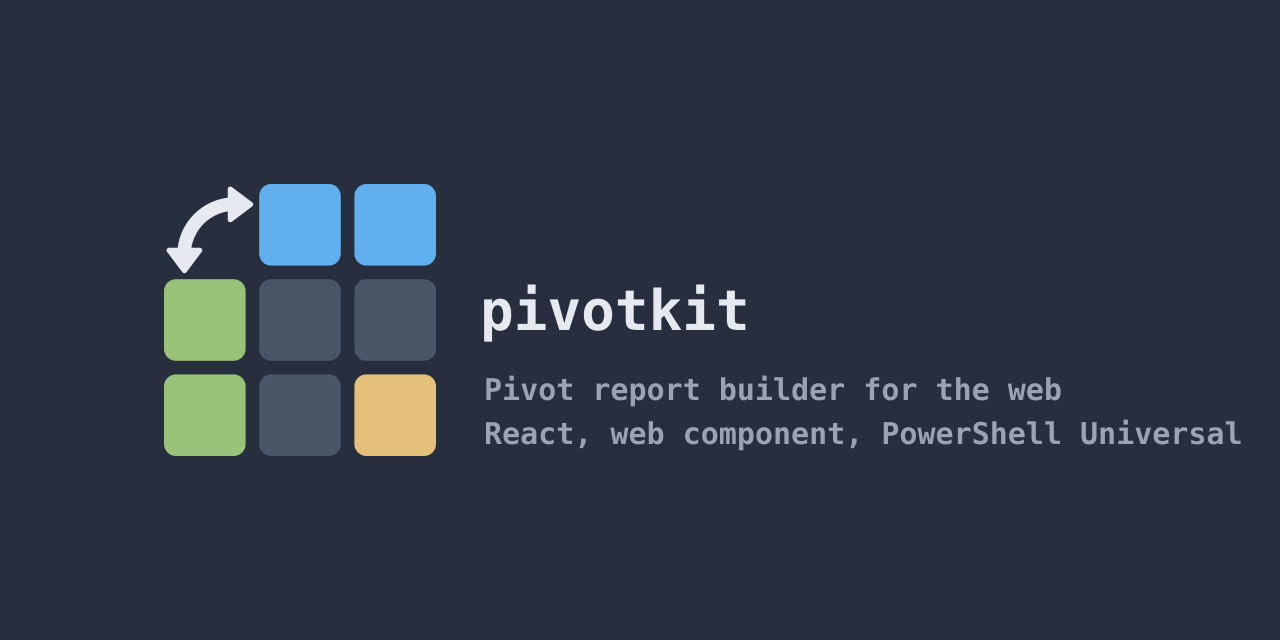
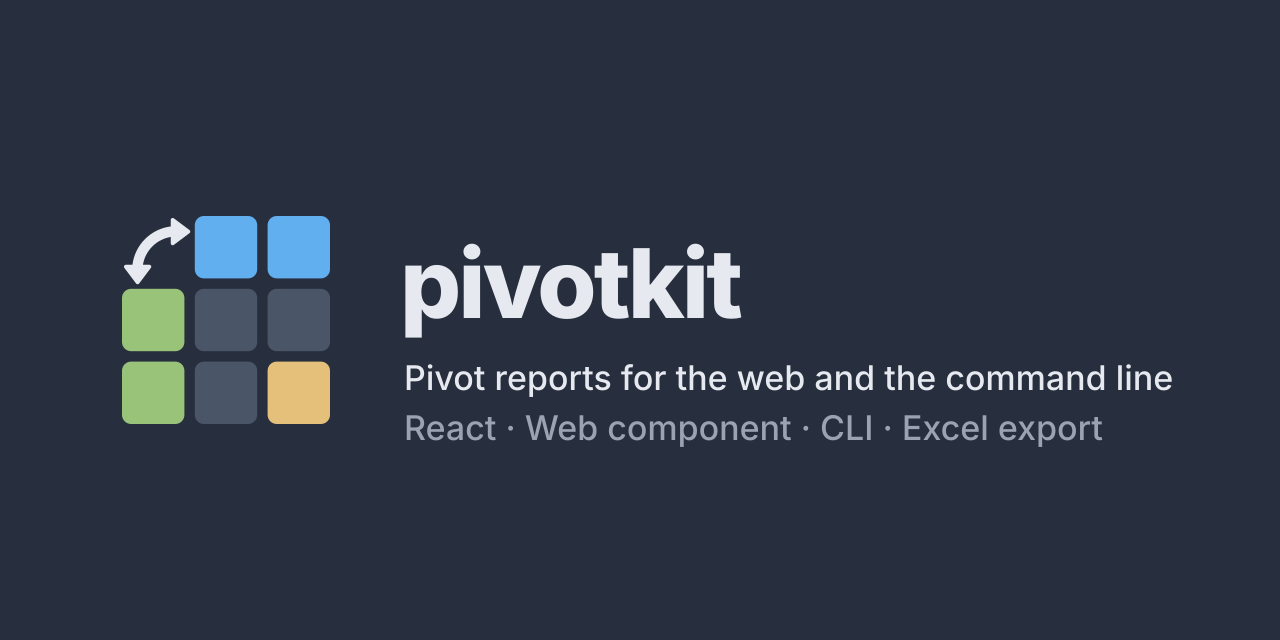
docs: social preview and start page name the CLI (#250)
The social preview (generated in eizedev/brand, pivotkit/) reads "Pivot
reports for the web and the command line" and "React · Web component · CLI ·
Excel export", set in Inter like the docs site's headings; PowerShell
Universal is no longer named there. The start page links the CLI reference
as "Reports without a browser (CLI)" in its link row, and its kicker,
feature line and description name the command line.

Changed region(s): [[0.0938, 0.2812, 0.9688, 0.7188]]

diff --git a/docs/index.md b/docs/index.md
@@ -1,6 +1,6 @@
 ---
 title: Overview
-description: pivotkit is a pivot report builder for the web - drag-and-drop fields, table and chart, filters, drill-down, views as JSON files and native Excel export - as a JavaScript engine, a React component and a web component.
+description: pivotkit is a pivot report builder for the web - drag-and-drop fields, table and chart, filters, drill-down, views as JSON files and native Excel export - as a JavaScript engine, a React component, a web component and a command line.
 hide:
   - navigation
   - toc
@@ -8,15 +8,15 @@ hide:
 
 <div class="hero" markdown>
 
-<p class="hero-kicker">Pivot tables · React · Web component · Excel export</p>
+<p class="hero-kicker">Pivot tables · React · Web component · CLI · Excel export</p>
 
 # pivotkit
 
 <p class="hero-lead">A pivot report builder for the web, with Excel's PivotTable as the reference: people drag fields into rows, columns and values, filter, drill into the rows behind a number, switch to a chart and export to Excel - and the whole report is a small JSON object you can save, share as a link or a file and load again.</p>
 
-MIT · Excel-like pivot in the browser · views as [safe](security.md) JSON · native .xlsx · React, web component, Node
+MIT · Excel-like pivot in the browser · views as [safe](security.md) JSON · native .xlsx · React, web component, Node, command line
 
-[Security](security.md) · [Performance (measured)](concepts/limits.md#measured-in-the-browser) · [Tests and CI](https://github.com/eizedev/pivotkit/actions/workflows/ci.yml) · [Comparison](compare.md)
+[Security](security.md) · [Performance (measured)](concepts/limits.md#measured-in-the-browser) · [Tests and CI](https://github.com/eizedev/pivotkit/actions/workflows/ci.yml) · [Comparison](compare.md) · [Reports without a browser (CLI)](reference/cli.md)
 
 [I build reports](use/index.md){ .md-button .md-button--primary title="For the people who build reports in an application: fields, filters, charts, export" }
 [I embed pivotkit](embed/index.md){ .md-button .md-button--primary title="For developers: React, web component, engine" }
